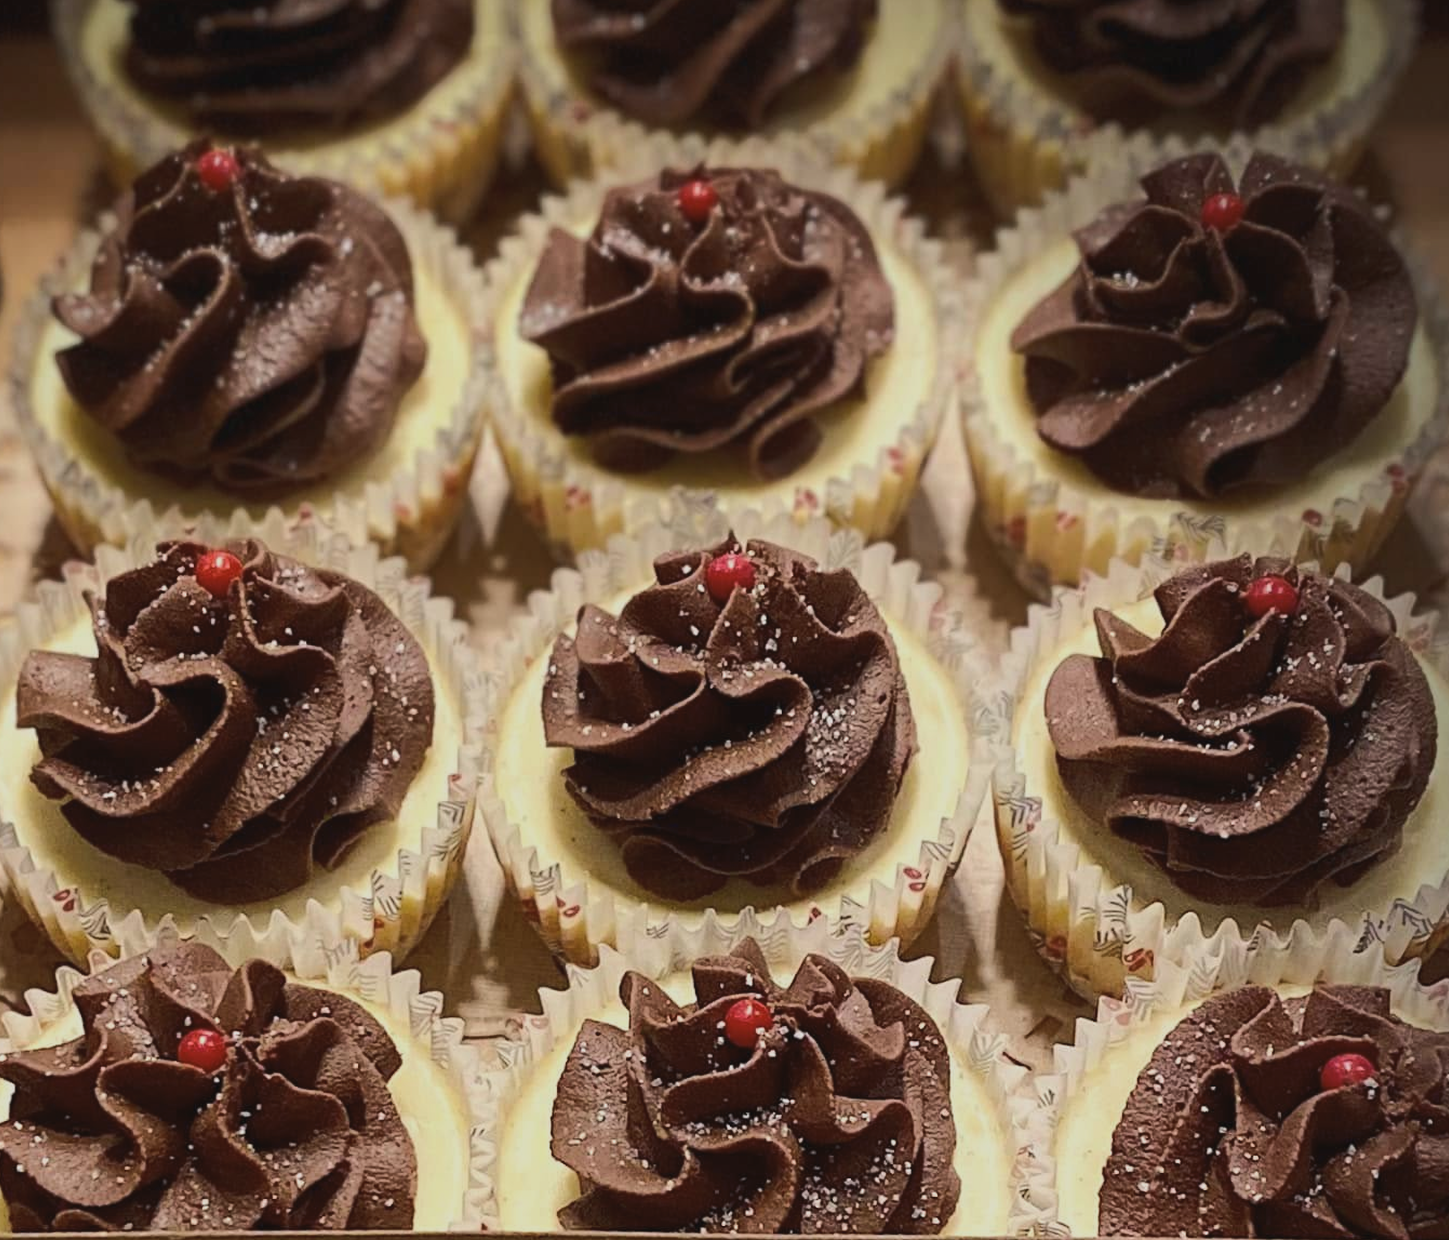
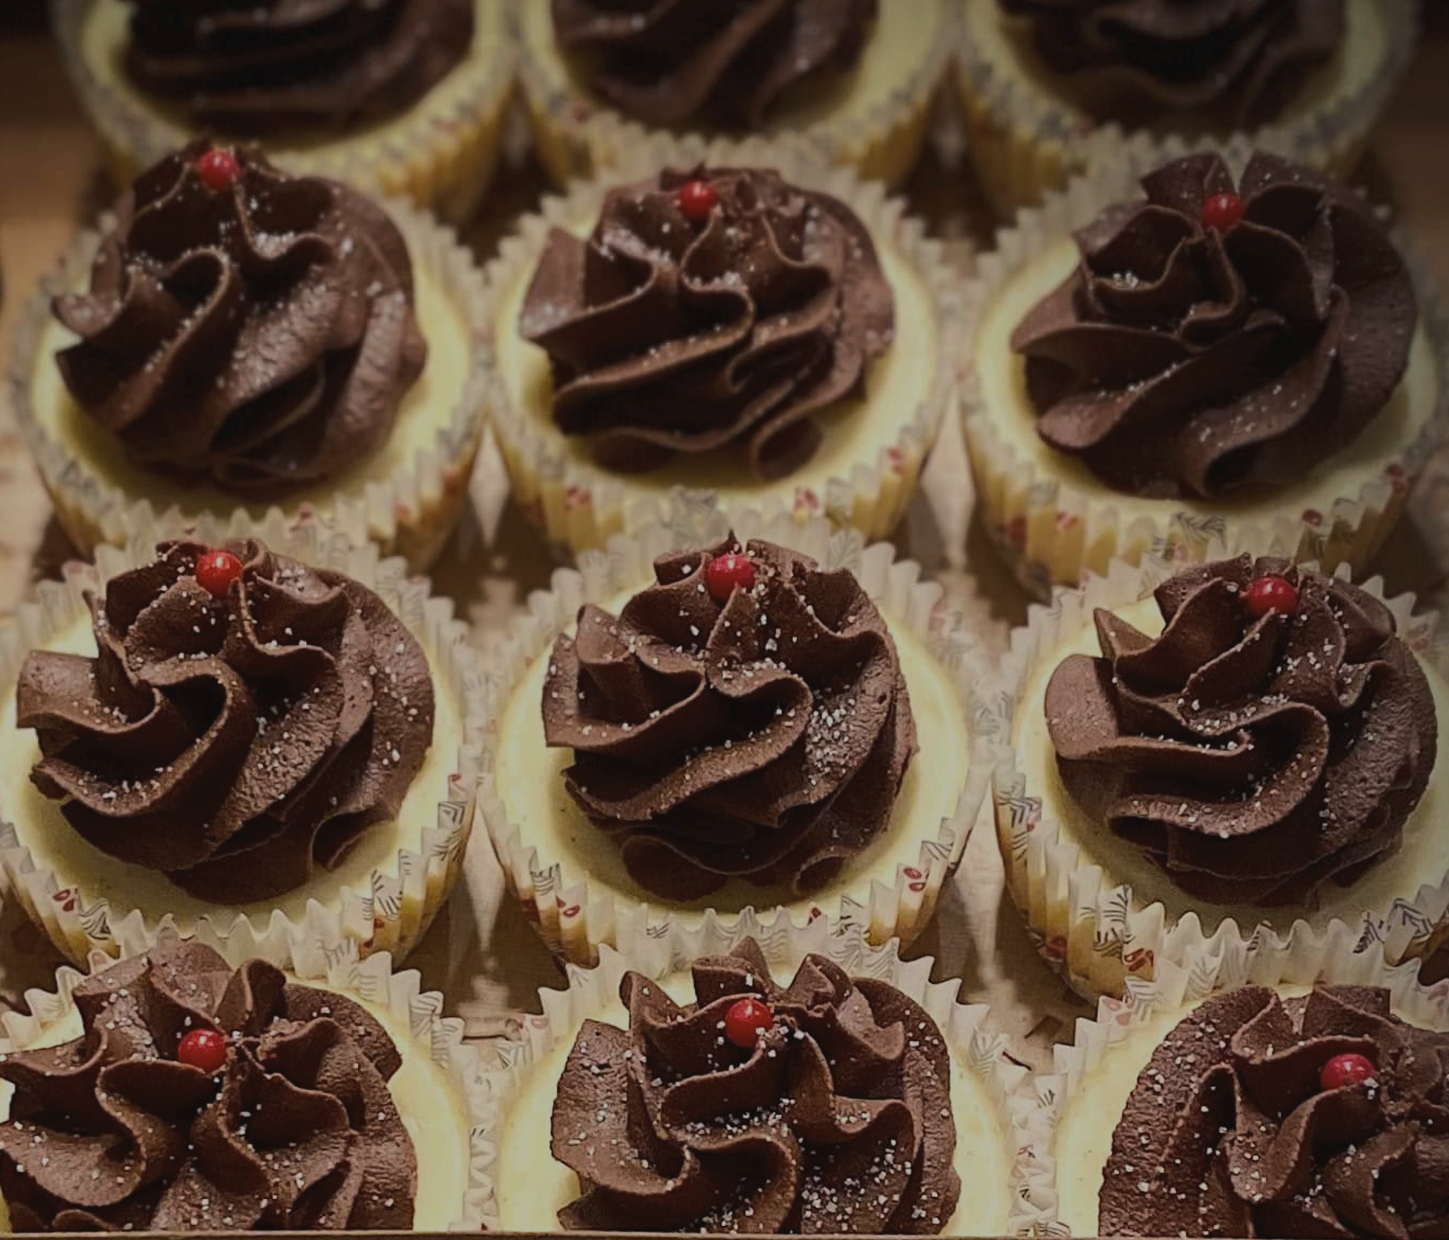
Updated cake photos section.

diff --git a/src/components/HeroBanner.jsx b/src/components/HeroBanner.jsx
@@ -2,7 +2,7 @@ import { useState, useEffect } from "react"
 import { motion } from "framer-motion"
 import "../styles/hero-banner.css"
 import img1 from "../assets/heroBanner/img1.png"
-import img2 from "../assets/heroBanner/img2.png"
+import img2 from "../assets/heroBanner/img2.jpg"
 import img3 from "../assets/heroBanner/img3.png"
 import img4 from "../assets/heroBanner/img4.png"
 import img5 from "../assets/heroBanner/img5.png"

diff --git a/src/pages/About.jsx b/src/pages/About.jsx
@@ -18,6 +18,7 @@ function About(){
                 <img src={marieHeadshot} />
                 <p>Running a small baked goods business has allowed me to turn my love for baking into something people truly enjoy. Every day is a mix of creativity and hard work as I craft delicious treats that bring a smile to my customers. Though the hours can be long, the satisfaction of seeing others appreciate my work makes it all worthwhile.</p>
             </div>
+            <ImageGallery sectionKey="newCustomcakes"/>
             <ImageGallery sectionKey="customcakes"/>
             <ImageGallery sectionKey="cupcakes"/>
             <ImageGallery sectionKey="specialdesserts"/>

diff --git a/src/styles/home.css b/src/styles/home.css
@@ -124,6 +124,7 @@
 .home .farmers-market-flyer{
     height: 90vh;
     aspect-ratio: 960/1440;
+    border-radius: 5px;
 }
 @media (max-width: 600px){
     .home .farmers-market-flyer{